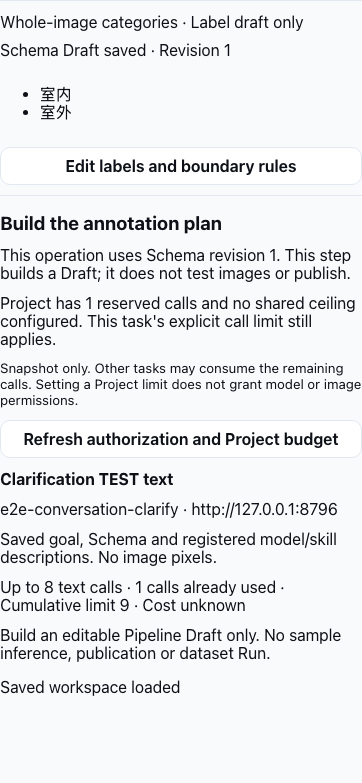
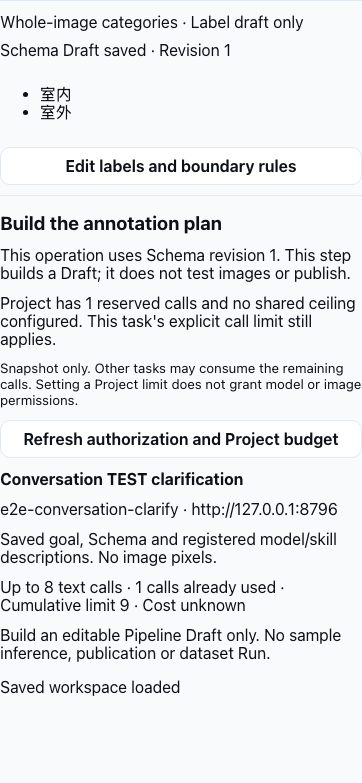
feat(workspace): retain clarification provenance through authorized sample execution

Changed region(s): [[0.0304, 0.5824, 0.6685, 0.6437]]

diff --git a/web/e2e/conversation-clarification.spec.ts b/web/e2e/conversation-clarification.spec.ts
@@ -1,17 +1,28 @@
 import {randomUUID} from "node:crypto";
+import {resolve} from "node:path";
 import {expect,test,fetchWithinMutationLimit} from "./fixtures";
 
-test("Schema clarification is answered in the same task without another model call",async({page,request})=>{
+test("Schema clarification saves without inference then continues to authorized Builder and samples",async({page,request})=>{
   test.setTimeout(120_000);
+  // The browser suite shares only this isolated TEST registry between scenarios.
+  // Retire prior scenario transports so fixture template selection is deterministic.
+  const existingProfiles=(await (await request.get("/api/model-profiles")).json()).models;
+  for(const profile of existingProfiles){
+    if(profile.display_name.startsWith("Conversation TEST "))
+      expect((await request.patch(`/api/model-profiles/${profile.id}`,{data:{enabled:false}})).ok()).toBe(true);
+  }
   const provider=await (await request.post("/api/providers",{data:{display_name:"Clarification TEST",adapter:"open_ai_compatible",base_url:"http://127.0.0.1:8796/openai/v1"}})).json();
   expect((await request.post(`/api/providers/${provider.id}/credential`,{data:{source:"workspace_file",secret:"TEST-clarification-only"}})).ok()).toBe(true);
-  const model=await (await request.post("/api/model-profiles",{data:{provider_id:provider.id,display_name:"Clarification TEST text",remote_model_id:"e2e-conversation-clarify",input_modalities:["text"],task_capabilities:["text_generation"],protocol_features:{tool_calls:true,structured_output:true}}})).json();
+  const model=await (await request.post("/api/model-profiles",{data:{provider_id:provider.id,display_name:"Conversation TEST clarification",remote_model_id:"e2e-conversation-clarify",input_modalities:["text","image"],task_capabilities:["text_generation","vision_language","image_classification"],protocol_features:{tool_calls:true,structured_output:true}}})).json();
   expect((await request.post(`/api/providers/${provider.id}/active-probe`,{data:{model_profile_id:model.id,confirmed_billable:true}})).ok()).toBe(true);
   const defaults=await (await request.get("/api/agent-model-bindings")).json();
   expect((await request.put("/api/agent-model-bindings",{data:{...defaults,pipeline_builder:model.id}})).ok()).toBe(true);
   const project=`clarification-${Date.now()}`;
   expect((await request.post("/api/projects",{data:{id:project,yaml:"version: 1\nproject:\n  name: TEST clarification\ndataset:\n  root: images\nruntime: {}\ntasks: []\nreview:\n  auto_accept_confidence: 0.9\n  force_review_below: 0.5\nexport:\n  formats: [native]\n"}})).ok()).toBe(true);
+  expect((await request.put(`/api/projects/${project}/model-bindings`,{data:{bindings:[{capability:"image_classification",role:"classification",match_kind:"capability",model_profile_id:model.id,locked:false}]}})).ok()).toBe(true);
   await page.goto(`/projects/${project}/work`);
+  await page.getByLabel("Add images",{exact:true}).setInputFiles(resolve("../examples/robocup/images/synthetic-robocup.png"));
+  await expect(page.getByText("Images saved on this server. No model has been called.",{exact:true})).toBeVisible();
   await page.getByLabel("Your message",{exact:true}).fill("TEST: annotate these images; help clarify the output");
   await page.getByRole("button",{name:"Save message",exact:true}).click();
   await page.getByRole("button",{name:"Prepare label proposal",exact:true}).click();
@@ -51,4 +62,37 @@ test("Schema clarification is answered in the same task without another model ca
   expect(await (await request.get(`${taskRoot}/budget`)).json()).toEqual(before);
   expect(await (await request.get(root)).json()).toHaveLength(1);
   await page.getByRole("region",{name:"Saved label draft",exact:true}).screenshot({path:"../docs/execution/conversational-workspace/clarification-answer-restored.png",animations:"disabled"});
+  await page.getByRole("checkbox",{name:/Allow this bounded Builder request/}).check();
+  await page.getByRole("button",{name:"Build Pipeline Draft",exact:true}).click();
+  await expect(page.getByRole("button",{name:"Review sample authorization",exact:true})).toBeEnabled();
+  await page.reload();
+  await expect(page.getByText("Builder outcome saved",{exact:true})).toBeVisible();
+  const answered=page.getByLabel("Saved clarification answer",{exact:true});
+  await expect(answered).toContainText("Clarification answered");
+  await answered.getByText("Why AnnotAgent asked",{exact:true}).click();
+  await expect(answered).toContainText(question.question);
+  await page.getByRole("button",{name:"Review sample authorization",exact:true}).click();
+  await page.getByRole("checkbox",{name:/Allow these sample images/}).check();
+  const submitted=page.waitForRequest(req=>req.method()==="POST"&&req.url().endsWith("/sample-operations"));
+  await page.getByRole("button",{name:"Test these samples",exact:true}).click();
+  const envelope=(await submitted).postDataJSON();
+  await expect(page.getByRole("button",{name:"View sample results in canvas",exact:true})).toBeVisible();
+  expect(envelope.conversation.task_id).toBe(task.input.id);
+  const saved=(await (await request.get(`/api/workflow-drafts/${envelope.draft_id}/sample-test?test_id=${envelope.request_id}`)).json()).sample_test;
+  expect(saved.report.validation.valid).toBe(true);
+  expect(saved.report.samples[0].nodes.some((node:any)=>node.metadata.model==="e2e-conversation-clarify")).toBe(true);
+  const projection=saved.report.samples[0].projection;
+  expect(projection.final_candidates.length+projection.review_candidates.length).toBeGreaterThan(0);
+  const after=await (await request.get(`${taskRoot}/budget`)).json();
+  expect(after.planning_reserved_calls).toBeGreaterThan(before.planning_reserved_calls);
+  let writes=0;
+  page.on("request",req=>{if(["POST","PUT","PATCH","DELETE"].includes(req.method()))writes++;});
+  await page.reload();
+  await page.getByRole("button",{name:"View sample results in canvas",exact:true}).click();
+  await expect(page.getByLabel("Saved sample results",{exact:true})).toBeVisible();
+  await expect(page.locator(".conversation-sample-canvas .annotation-canvas image")).toBeVisible();
+  expect(await (await request.get(`${taskRoot}/budget`)).json()).toEqual(after);
+  expect(await (await request.get(root)).json()).toHaveLength(1);
+  expect(writes).toBe(0);
+  await page.screenshot({path:"../docs/execution/conversational-workspace/clarification-sample-result.png",fullPage:true,animations:"disabled"});
 });

diff --git a/web/src/components/ConversationHumanSchema.tsx b/web/src/components/ConversationHumanSchema.tsx
@@ -16,9 +16,19 @@ export function ConversationHumanSchema({project,conversation,task,schemaId,onSa
   const [busy,setBusy]=useState(false);
   const [uncertain,setUncertain]=useState(false);
   const [error,setError]=useState("");
+  const [answered,setAnswered]=useState<{schema:string;call:string;question:string}>();
   const pending=useRef(false), alive=useRef(true);
   const request=useRef<Parameters<typeof api.saveHumanConversationSchema>[3] | undefined>(undefined);
   useEffect(()=>{alive.current=true; return()=>{alive.current=false;};},[]);
+  useEffect(()=>{
+    if(!schemaId||!clarification)return;
+    const controller=new AbortController();
+    void api.conversationSchemaClarification(project,conversation,task,clarification.call_id,controller.signal).then(saved=>{
+      if(!controller.signal.aborted&&saved.status==="applied"&&saved.schema_draft_id===schemaId)
+        setAnswered({schema:schemaId,call:saved.id,question:saved.question});
+    }).catch(()=>{/* Do not claim an answer link when the owned server evidence is unavailable. */});
+    return()=>controller.abort();
+  },[project,conversation,task,schemaId,clarification?.call_id]);
   useEffect(()=>{if(schemaId)return; onDirtyChange(busy||uncertain||kind!=="bounding_box"||Boolean(labels||rules));return()=>onDirtyChange(false);},[schemaId,busy,uncertain,kind,labels,rules,onDirtyChange]);
   async function save() {
     if(pending.current)return;
@@ -30,7 +40,14 @@ export function ConversationHumanSchema({project,conversation,task,schemaId,onSa
     catch(error){if(alive.current){setError((error as Error).message);const rejected=error instanceof ApiRequestError&&[400,401,403,404,409,422].includes(error.status);setUncertain(!rejected);if(rejected)request.current=undefined;}}
     finally{pending.current=false;if(alive.current)setBusy(false);}
   }
-  if(schemaId)return <><p>Human-defined labels · No model call was used to create this Schema Draft.</p><ConversationSchemaEditor project={project} conversation={conversation} task={task} schemaId={schemaId} onDirtyChange={onDirtyChange} onSample={onSample} onAssistance={onAssistance}/></>;
+  if(schemaId)return <>
+    {answered?.schema===schemaId&&answered?.call===clarification?.call_id ? <aside className="conversation-consent" aria-label="Saved clarification answer">
+      <strong>Clarification answered · Labels saved</strong>
+      <p>Your output type, labels and boundary rules are saved in this task's editable label draft. Saving the answer did not call a model.</p>
+      <details><summary>Why AnnotAgent asked</summary><p>{answered.question}</p><small>The original question remains unchanged. Later label edits create a new Schema revision; they do not rewrite the model's request.</small></details>
+    </aside> : <p>Human-defined labels · No model call was used to create this Schema Draft.</p>}
+    <ConversationSchemaEditor project={project} conversation={conversation} task={task} schemaId={schemaId} onDirtyChange={onDirtyChange} onSample={onSample} onAssistance={onAssistance}/>
+  </>;
   return <section className="conversation-schema-editor" aria-label="Define labels without a model">
     {clarification&&<aside className="conversation-consent" aria-label="Answer annotation clarification"><h4>Clarify this annotation task</h4><p>{clarification.question}</p><small>Your answer defines this task's labels and output. Saving does not call another model or accept dataset annotations.</small></aside>}
     <p>Choose the output and labels yourself. Saving only creates a label draft; building or testing a pipeline still requires compatible models and separate authorization.</p>

diff --git a/web/src/api.ts b/web/src/api.ts
@@ -582,6 +582,7 @@ export const api = {
   conversationSchemaDraft: (project: string, draft: string, signal?: AbortSignal) => request<import("./types").ConversationSchemaDraft>(`/api/projects/${encodeURIComponent(project)}/conversation-schema-drafts/${encodeURIComponent(draft)}`, {signal}),
   editConversationSchemaDraft: (project: string, draft: string, input: { request_id: string; expected_revision: number; decision: unknown }) => request<import("./types").ConversationSchemaDraft>(`/api/projects/${encodeURIComponent(project)}/conversation-schema-drafts/${encodeURIComponent(draft)}`, { method: "POST", body: JSON.stringify(input) }),
   conversationSchemaCalls: (project: string, conversation: string, task: string, signal?: AbortSignal) => request<import("./types").ConversationCallReceipt[]>(`/api/projects/${encodeURIComponent(project)}/conversations/${encodeURIComponent(conversation)}/tasks/${encodeURIComponent(task)}/calls`, { signal }),
+  conversationSchemaClarification: (project:string,conversation:string,task:string,call:string,signal?:AbortSignal)=>request<{id:string;status:string;schema_draft_id:string|null;question:string;expected_schema_revision:string}>(`/api/projects/${encodeURIComponent(project)}/conversations/${encodeURIComponent(conversation)}/tasks/${encodeURIComponent(task)}/calls/${encodeURIComponent(call)}/clarification`,{signal}),
   proposeConversationSchema: (project: string, conversation: string, task: string, consent: import("./types").ConversationSchemaAuthorization) => request<import("./types").ConversationCallReceipt>(`/api/projects/${encodeURIComponent(project)}/conversations/${encodeURIComponent(conversation)}/tasks/${encodeURIComponent(task)}/schema-proposals`, { method: "POST", body: JSON.stringify(consent) }),
   cancelConversationSchema: (project: string, conversation: string, task: string, call: string) => request<import("./types").ConversationCallCancellation>(`/api/projects/${encodeURIComponent(project)}/conversations/${encodeURIComponent(conversation)}/tasks/${encodeURIComponent(task)}/calls/${encodeURIComponent(call)}/cancel`, { method: "POST" }),
   conversationSchemaCancellations: (project: string, conversation: string, task: string, signal?: AbortSignal) => request<import("./types").ConversationCallCancellation[]>(`/api/projects/${encodeURIComponent(project)}/conversations/${encodeURIComponent(conversation)}/tasks/${encodeURIComponent(task)}/cancellations`, { signal }),

diff --git a/docs/execution/CONVERSATIONAL_WORKSPACE_STATUS.md b/docs/execution/CONVERSATIONAL_WORKSPACE_STATUS.md
@@ -1899,3 +1899,40 @@ than making a second model request; other shared human-Schema delivery tests rem
 evidence. Deferral/cancellation UI for this request type and continuous coordination remain open.
 No Live/paid model or real user Workspace was used, no old key, no push or remote change.
 Full-workspace regression and real-human usability have not been repeated for this increment.
+
+### M2 continuation — execute the clarified task through its sample canvas
+
+Extended the clarification browser scenario beyond the authorization panel: the saved answer now
+goes through the real Builder orchestration, compatible model binding, static validation,
+separately authorized sample operation, terminal projection and the existing editable canvas.
+The TEST transport handles both the initial scripted text clarification and subsequent bounded
+Builder/classifier protocol requests; image pixels are not sent by the Schema phase. The test
+uploads the repository synthetic image to its isolated Project, explicitly binds the TEST model,
+asserts an actual classifier node with that model identity and nonempty terminal projection,
+then reloads and reopens the canvas without writes or additional usage. All operations remain
+under the original task. This supersedes the previous increment's authorization-only browser
+limitation, not the remaining product-wide limitations.
+
+Added a compact saved-answer provenance block with an on-demand original question. It is shown
+only after the owned clarification API confirms `applied` and the exact linked Schema Draft ID;
+the client does not infer that an arbitrary human Draft answered a nearby model question.
+Unavailable evidence cannot produce a false “answered” claim. The original model question is
+read-only; editing labels continues to create revisions through the existing Schema editor.
+
+Validation: Web typecheck, 119 unit tests and production build passed. The extended isolated
+browser test passed in `/tmp/annotagent-guided-e2e-18611` (1/1, 8.1 seconds including build/start).
+Inspected `conversational-workspace/clarification-sample-result.png`: the original synthetic
+image and a terminal classification are visible in the real workspace canvas, explicitly
+labelled evaluation-only. Its scripted “室内” output is not a quality assessment of that image.
+The project header identifies TEST data; no Live accuracy or human usability claim is made.
+Combined human-Schema delivery regression is recorded below after completion.
+
+No Rust production change in this increment; prior targeted Rust validation is retained rather
+than represented as a new full-workspace run. No real Workspace, old key, push or remote change.
+The left-hand historical cards remain too long and the default continuous coordinator is still
+incomplete. Deferral/cancellation for clarification and the other HumanRequest types remain open.
+Combined `/tmp/annotagent-guided-e2e-18683` initially failed the next scenario's model-identity
+assertion: the new compatible TEST profile was not included in the suite's existing scenario
+retirement prefix. Fixed the isolated fixture profile naming and prior-scenario retirement,
+without altering production model selection. Re-run `/tmp/annotagent-guided-e2e-18775` passed
+2/2 (17.6 seconds), including the existing human-classification full delivery regression.
